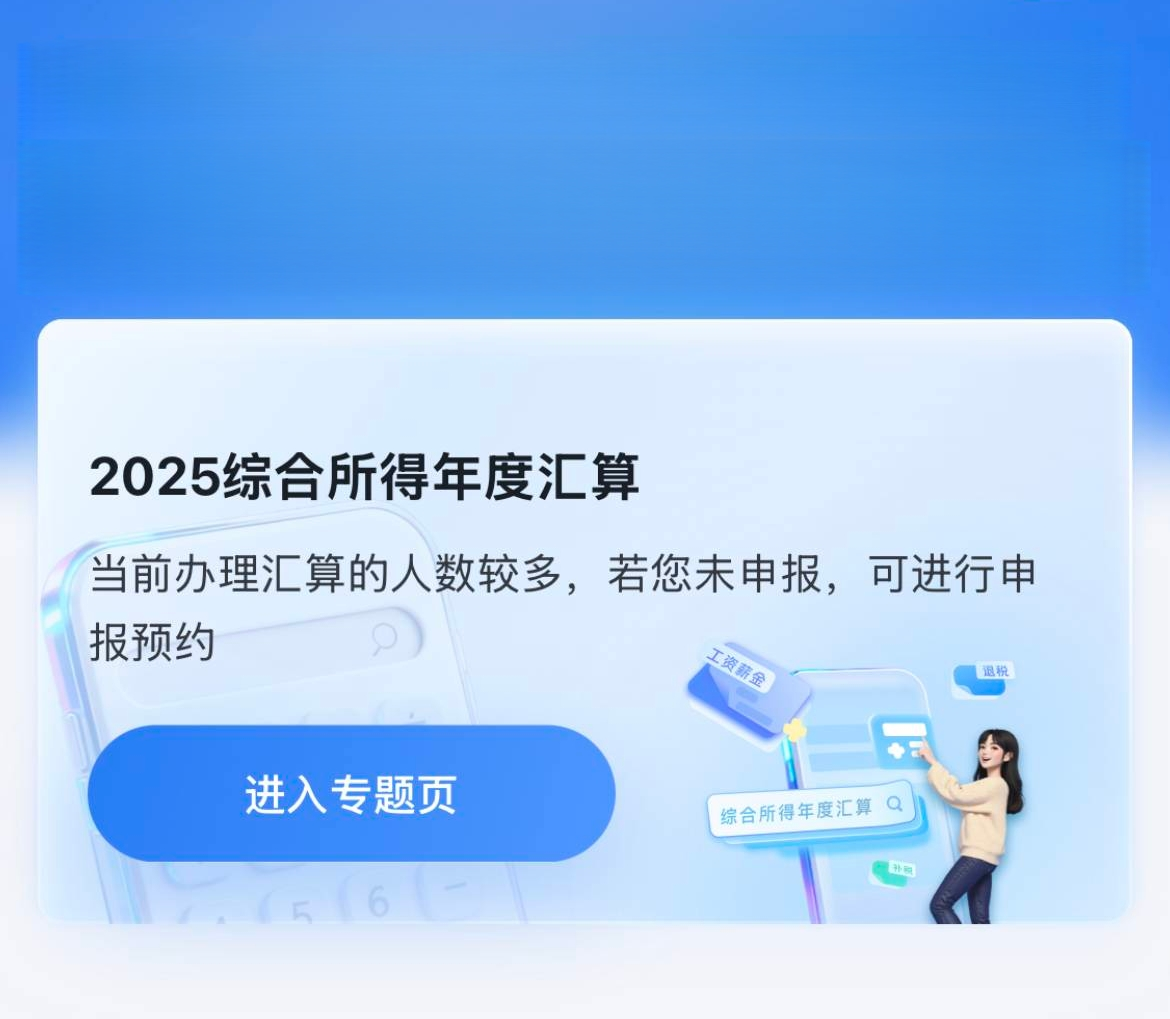
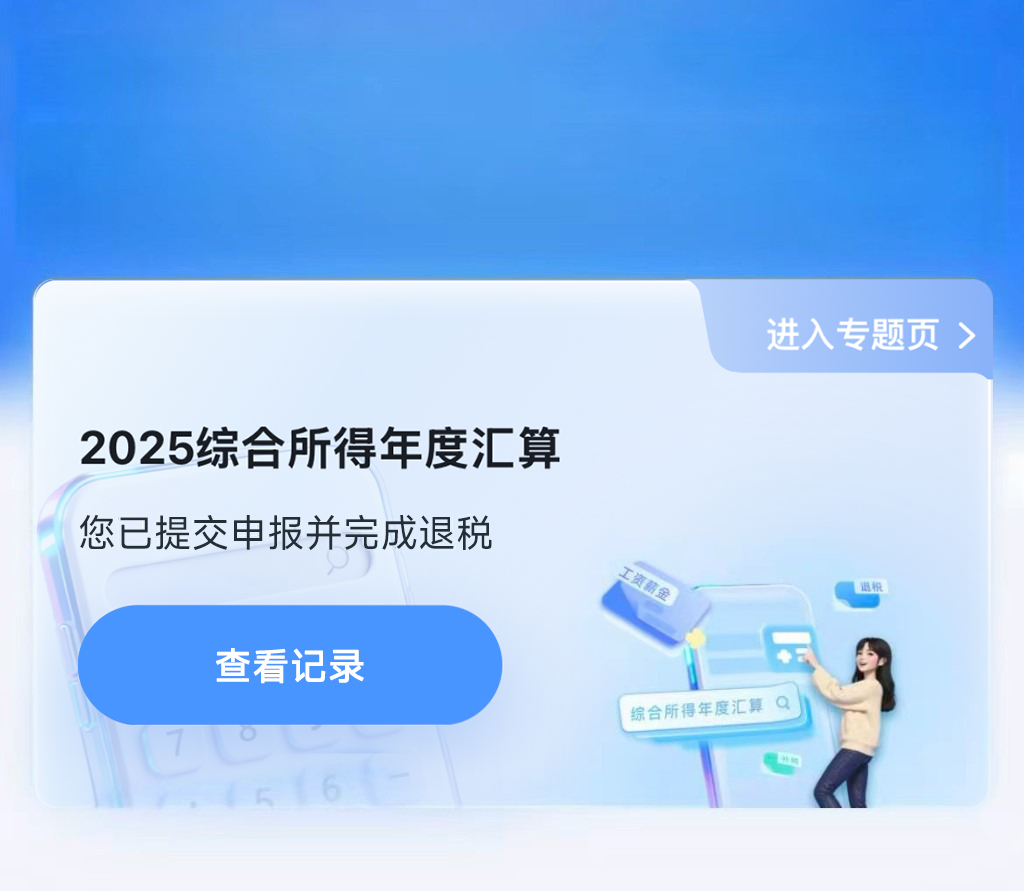
fix(frontend): 更新首页综合所得汇算横幅图 sydb-v2
替换为「已于3月1日开始」专题页入口样式，并刷新缓存版本号。

diff --git a/frontend/shouye.html b/frontend/shouye.html
@@ -270,7 +270,7 @@
     <div class="shouye-page">
         <div class="shouye-header">
             <div style="position: relative;">
-                <img id="assetShouyeBanner" src="sydb-v2.jpg?v=3" alt="首页">
+                <img id="assetShouyeBanner" src="sydb-v2.jpg?v=4" alt="首页">
                 <a href="zonghe.html" class="sy-banner-zonghe-hit" aria-label="进入专题页"></a>
                 <!-- 消息滚动条 -->
                 <div class="notice-bar">